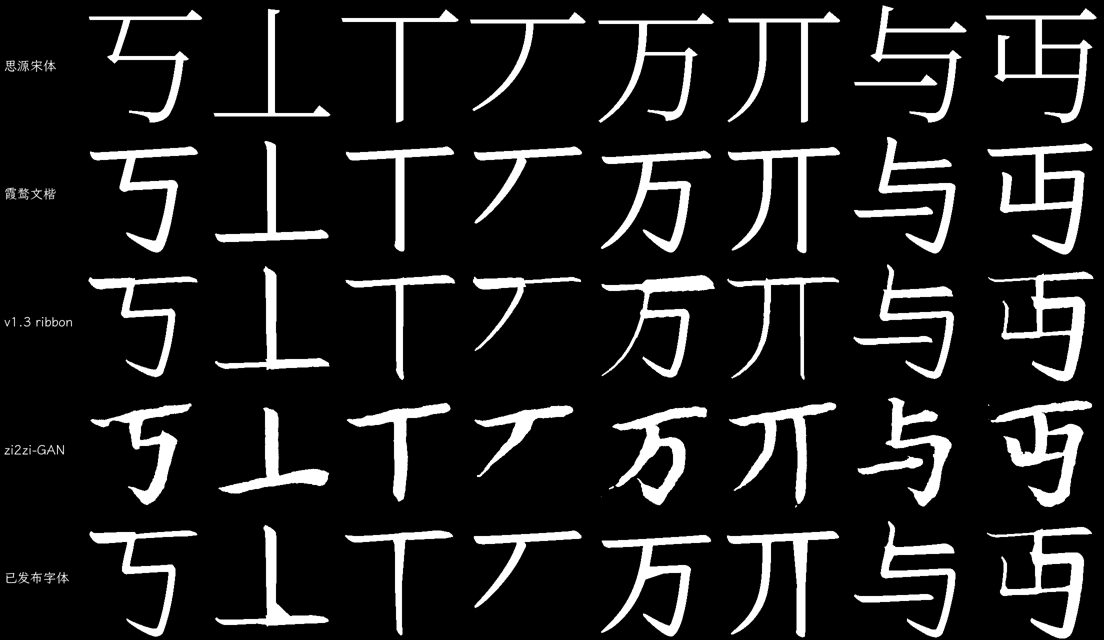
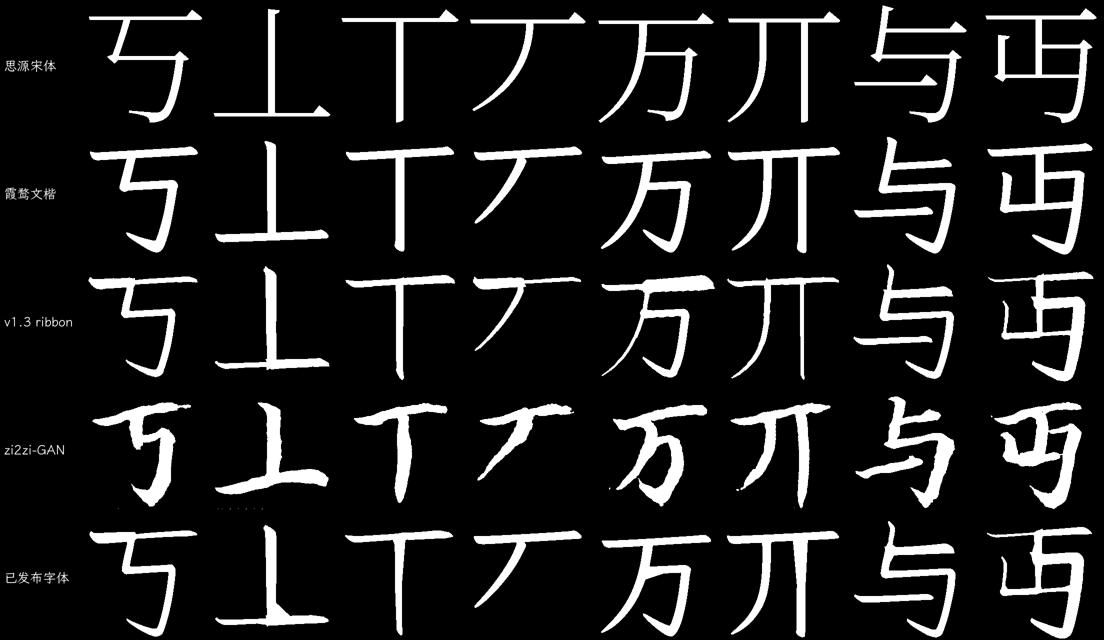
更新

diff --git a/docs/EXPERIMENTS.md b/docs/EXPERIMENTS.md
@@ -58,7 +58,7 @@ def dice(pred_mask, target_mask):
 | E13 | 逐笔 dip | 每笔宽度扰动 | 端帽 KS 0.279→0.029 | ✅ |
 | E14 | JiT 长训练 | 600 ep / 18,600 步 | Dice 0.397（下降） | ❌ 端帽变好但整体变瘦 |
 | E15 | 带状扫掠 | ribbon + 斜切端头 | 墨量 1.077 / KS 0.101 | ✅ **v1.3.2 采用** |
-| E16 | zi2zi-GAN 重实现 | pix2pix + 对抗，150 ep | Dice 0.554（等墨量 0.92） | ⏳ 状态未定（ep52 起可生成未见字） |
+| E16 | zi2zi-GAN 重实现 | pix2pix + 对抗，150 ep | Dice 0.563 / 墨量 1.013 / KS 0.048（ep100） | ⏳ 训练中，结构待闸门 |
 | E17 | LoRA 加粗复测 | 评测量化膨胀到等墨量 | Dice 0.396→0.485，端帽 KS 0.093→**0.267** | ❌ 端帽优势消失 |
 
 ---
@@ -480,20 +480,19 @@ cd data/vendor/zi2zi-JiT && PYTHONPATH=. python3 lora_single_gpu_finetune_jit.py
 - 架构：U-Net（8 下 / 7 上，5×5，BN，dropout）+ **全局 FC 判别器**；
   损失 `L1×100 + BCE(adv) + 常数量×15`（编码器特征匹配）
 - 训练：1,555 对，batch 16，146 s/epoch，150 epoch ≈ 6 小时（M3 Ultra / MPS）
-- 结果（40 字无泄漏集，ep60 检查点）：
+- 结果（40 字无泄漏集，ep100 检查点）：
 
 | 指标 | 值 |
 |---|---|
-| Dice | 0.554（所有方案最高） |
-| 墨量比 | 0.922 |
-| 端帽 cap_mid / KS | 0.565 / 0.101 |
+| Dice | 0.563（所有方案最高） |
+| 墨量比 | 1.013 |
+| 端帽 cap_mid / KS | 0.536 / 0.048 |
 | 逐笔 std | 0.248 |
 
-- 泛化性（ep52 复测）：ep17 时对 8 个未见字（`丂丄丅丆万丌与丏`）输出全空，
-  曾据此判定“学的是记忆映射”。ep52 起已能生成，墨量 0.90–1.32，孔洞数基本一致；
-  但 `丂` 多 1 孔、`丏` 孔洞 1→3，仍有结构瑕疵。
-- 结论：**状态未定**，不是证否。训练只到 52/150；缺字没有真值，只能靠孔洞/墨量做 sanity check。
-  若最终稳定，可作为 ribbon 的互补方案（GAN 笔形 + ribbon 结构闸门）。
+- 泛化性：ep17 对 8 个未见字（`丂丄丅丆万丌与丏`）输出全空，ep52 起可生成。
+  ep100 复测：墨量 0.99–1.32，6/8 孔洞数一致（`丌` 多 1 孔、`丏` 1→2）。
+- 结论：ep100 的指标已全面超过 ribbon（Dice、墨量、端帽三项），但 2/8 的孔洞错误说明
+  仍需结构闸门。训练未完（100/150），缺字无真值，只能做墨量与孔洞的一致性检查。
 
 ### E17 — LoRA 输出的端帽优势能否在等墨量下保住？（2026-10-23）
 

diff --git a/docs/PLAN-v1.4.md b/docs/PLAN-v1.4.md
@@ -18,8 +18,8 @@
 
 - 代码：`scripts/21_train_gan.py`（原版 zi2zi 配方的独立 PyTorch 重实现，Apache-2.0 参考、无预训练权重）
 - 产物：`build/GuanGeKai-B-gan.ttf`
-- 现状：150 epoch 训练中；40 字无泄漏集 Dice 0.554、墨量 0.922、端帽 KS 0.101、std 0.249
-- 已知问题：`丂`/`丏` 等字孔洞数错误，需要结构闸门；对训练集外的字（ep52 起）可生成但质量无真值可评
+- 现状：150 epoch 训练中（已到 ep100）；40 字无泄漏集 Dice 0.563、墨量 1.013、端帽 KS 0.048、std 0.234
+- 已知问题：8 个未见字中 2 个孔洞数错误（`丌`、`丏`），需要结构闸门；缺字无真值，只能查墨量与孔洞一致性
 - 待做：
   1. 训练到 150 epoch，按 epoch 20/50/100/150 各评估一次
   2. 结构闸门：孔洞数 / bbox IoU / 连通域数，不通过回退到路线 A

diff --git a/AGENTS.md b/AGENTS.md
@@ -38,7 +38,7 @@ python3 -c "import json;d=json.load(open('release/provenance.json'));print(sum(v
 三条线各自保留产物：**A 带状扫掠**（`--method ribbon`）/ **B zi2zi-GAN** / **C zi2zi-JiT 自训练权重**。
 
 - A：墨量 1.077、端帽 KS 0.101、std 0.229。待做 —— **转折（横折方角）**、锐角内侧空洞、小字号回归。
-- B：40 字无泄漏集 Dice 0.554、墨量 0.922；训练中（150 ep）。需结构闸门（孔洞/连通域）。
+- B：40 字无泄漏集 Dice 0.563、墨量 1.013、端帽 KS 0.048（ep100）；训练中（150 ep）。需结构闸门（孔洞/连通域）。
 - C：上游权重不可用（LICENSE 只覆盖 "Software"）；计划用 MIT 代码 + 自有数据从头训练（`main_jit.py` 已验证可跑）。
 - 换数据源（楷书字典刻本）是唯一能根本改变 8% 覆盖率的路线。
 

diff --git a/docs/PROJECT_STATE.md b/docs/PROJECT_STATE.md
@@ -160,7 +160,8 @@ PDF ─①切字─► cells.jsonl + cells/*.png + masks/*.png
    这是唯一能根本改变 8% 覆盖率的路线。
 3. ~~笔刷引擎~~ 已完成（E15，v1.3.2）。
 4. ~~zi2zi LoRA 全量重训~~ **已证伪**：E14 用 600 epoch / 18,600 步训练，Dice 从 0.441 降到 0.397。
-5. **zi2zi-GAN（E16）状态未定**：ep17 对未见字全空，ep52 已能生成（墨量 0.90–1.32，`丂`/`丏` 孔洞有误）；训练未完，暂不采用。
+5. **zi2zi-GAN（E16）**：ep100 指标已超过 ribbon（Dice 0.563、墨量 1.013、端帽 KS 0.048），
+   但 8 个未见字中 2 个孔洞错误，需结构闸门；训练未完（100/150）。
 6. **《史记》独立项目**：用户决定暂缓；若启动需先做页面去卷曲。
 
 > 轻重判断一律用墨量比（像素计数）：v1.3.2 = 1.077（真迹 = 1.0）。
